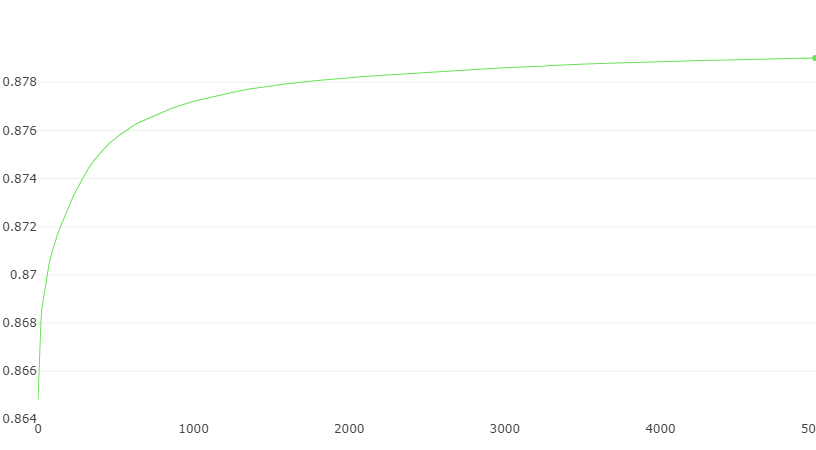
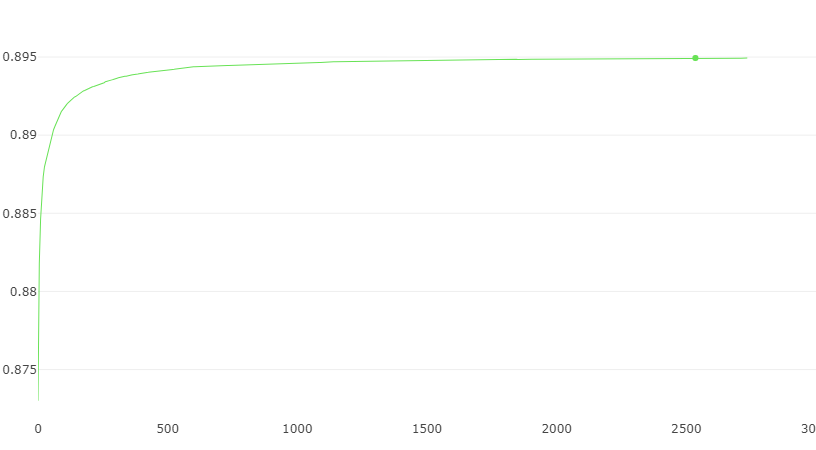
catboost AUC 0.8949
all features as cat_features increase the performance by huge amount

diff --git a/data/process.py b/data/process.py
@@ -18,6 +18,39 @@ def read_csv_and_preprocess(file_path: Path):
     return data
 
 
+# preprocessing so that catboost can recognize them as categorical features
+def float64_to_int64(df: pd.DataFrame):
+    # convert all numerical features into integers
+    float64_cols = df.select_dtypes(include=['float64']).columns
+    df[float64_cols] = df[float64_cols].astype('int64')
+
+def retrieve_train_dev_test_for_catboost():
+    train = pd.read_csv(DATA_DIR / 'train.csv')
+    test = pd.read_csv(DATA_DIR / 'test.csv')
+
+    dev = train[ :int(0.01 * len(train))]
+
+    # # oversample the minority class
+    # train_extra = pd.read_csv(DATA_DIR / 'train_extra.csv')
+    # oversampled = train_extra[train_extra['Response'] == 1]
+
+    # train = pd.concat([train[int(0.01 * len(train)): ], oversampled], ignore_index=True)
+    train = train[int(0.01 * len(train)): ]
+
+    # drop index column
+    train = train.drop(columns=['id'])
+    dev = dev.drop(columns=['id'])
+    test = test.drop(columns=['id'])
+
+
+    # convert float64 to int64
+    float64_to_int64(train)
+    float64_to_int64(dev)
+    float64_to_int64(test)
+
+    return train, dev, test
+
+
 def retrieve_train_dev_test_dataframe():
     train = read_csv_and_preprocess(DATA_DIR / 'train.csv')
     test = read_csv_and_preprocess(DATA_DIR / 'test.csv')

diff --git a/model/catboost_opt.py b/model/catboost_opt.py
@@ -38,6 +38,7 @@ const_params = {
     'eval_metric': 'Logloss', 
     'custom_metric': ['Logloss'],
     'random_seed': RANDOM_SEED,
+    'use_best_model': True,
     # fixed after tuning
     'random_strength': 0,
 
